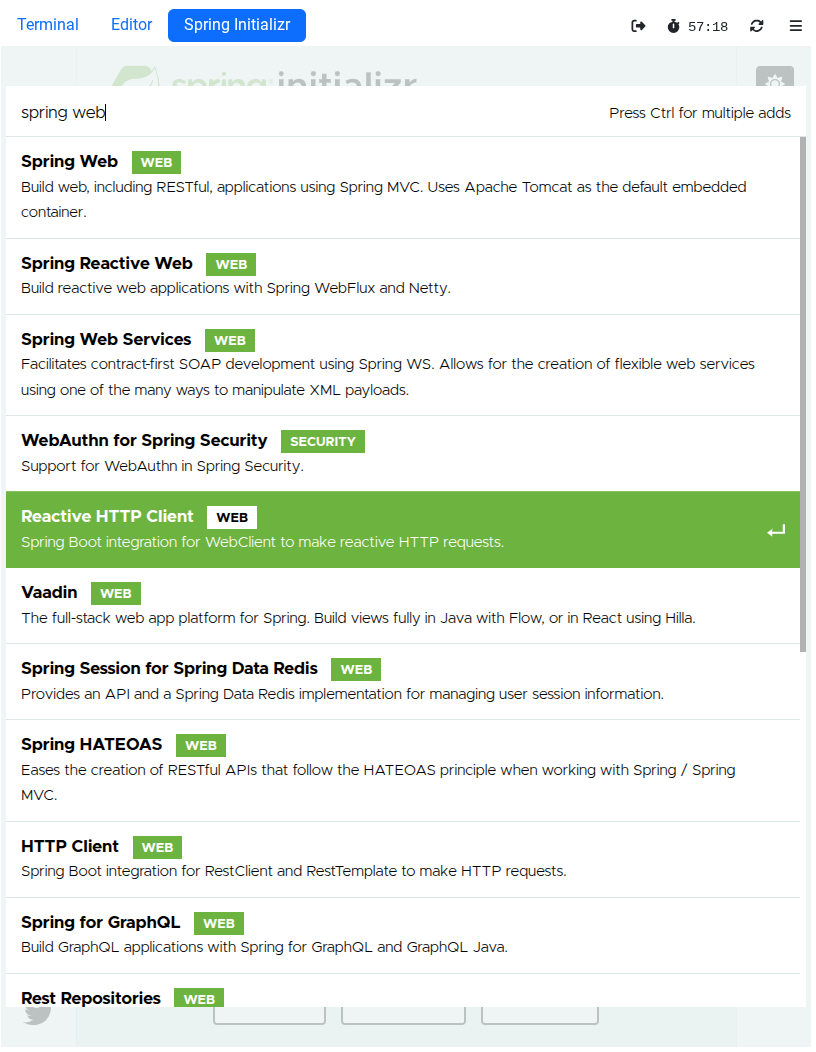
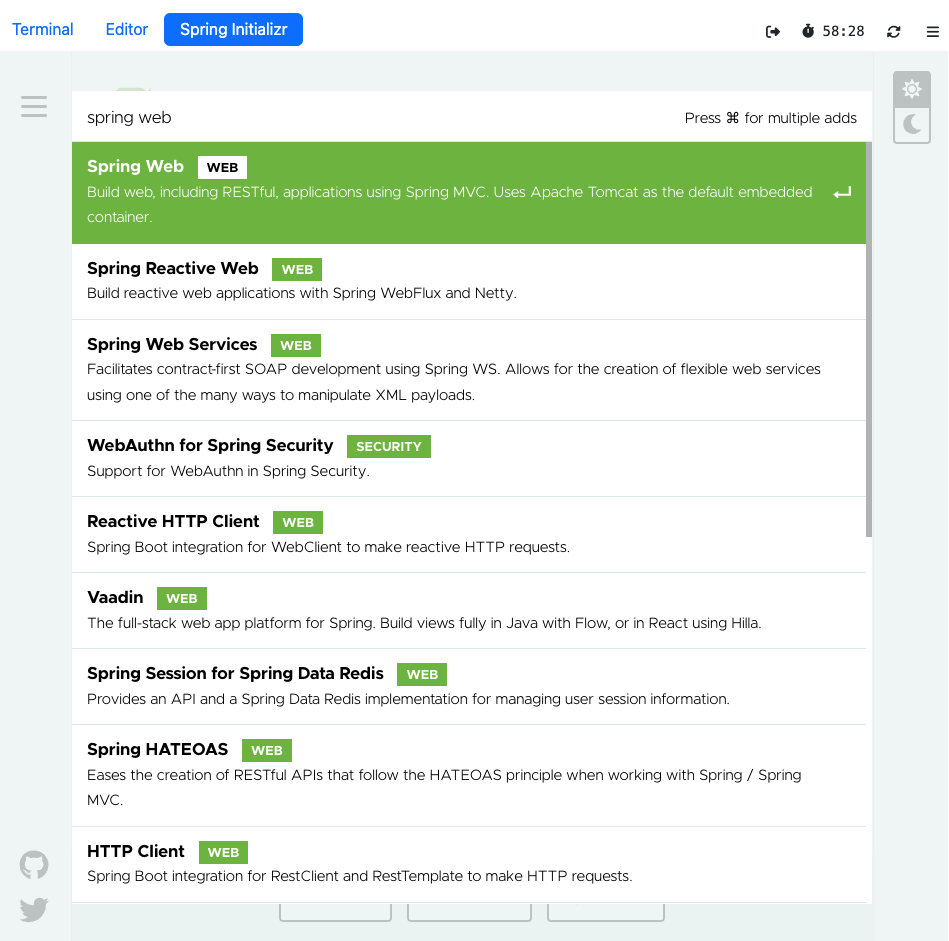
upates following user feedback

diff --git a/labs/07-create-post/workshop/content/07-test-and-learn.md b/labs/07-create-post/workshop/content/07-test-and-learn.md
@@ -62,7 +62,7 @@ Let's find out.
       ...
    ```
 
-   In addition, edit `build.gradle` to enable more verbose test output, which will help us identify the upcoming test failure.
+   In addition, edit `build.gradle` to enable more verbose test output, which will give us more insight into what happens when we run the tests.
 
    ```editor:select-matching-text
    file: ~/exercises/build.gradle
@@ -82,7 +82,7 @@ Let's find out.
 
 1. Run the tests.
 
-   When we run the test we see that the the API crashes with a `500` status code.
+   The test fails, but not in the way you might expect.
 
    ```dashboard:open-dashboard
    name: Terminal
@@ -91,26 +91,30 @@ Let's find out.
    ```shell
    [~/exercises] $ ./gradlew test
    ...
-   expected: 201 CREATED
-    but was: 500 INTERNAL_SERVER_ERROR
+   CashCardApplicationTests > shouldCreateANewCashCard() FAILED
+       org.opentest4j.AssertionFailedError:
+       expected: 200 OK
+        but was: 404 NOT_FOUND
    ```
 
-   Let's find out why the test is failing.
+   Look closely at which assertion failed. It's the one checking the `GET` response, not the `POST` response — the `POST` still returned `201 CREATED` with a `Location` header. It's only when the test follows that `Location` header that things fall apart.
 
-1. Find and understand the database failure.
+   Let's find out why.
 
-   Search the test output for the following message:
+1. Understand what happened.
 
-   ```shell
-   Failed to update entity [CashCard[id=44, amount=250.0]]. Id [44] not found in database.
-   ```
+   The `POST` request appeared to succeed, yet nothing was actually saved. Interesting! Can you guess why?
 
-   The Repository is trying to **_find `CashCard` with `id` of `44` and throwing an error when it cannot find it._** Interesting! Can you guess why?
+   Supplying an `id` tells Spring Data JDBC that we're asking it to **update** an existing `CashCard`, not create a new one. Since no `CashCard` with `id` of `44` exists yet, that "update" matches zero rows in the database.
+
+   `cashCardRepository.save()` doesn't treat this as an error: no row is written, but no exception is thrown either. The controller has no way of knowing anything went wrong, so it still returns `201 CREATED` with a `Location` header pointing at `/cashcards/44`.
+
+   The problem only becomes visible one step later, when the test follows that `Location` header with a `GET` request: there's no `CashCard` with `id` of `44` in the database, so the response is `404 NOT_FOUND`.
 
    Supplying an `id` to `cashCardRepository.save` is supported when an _update_ is performed on an existing resource.
 
    We'll cover this scenario in a later lab focused on updating an existing `CashCard`.
 
-In this Learning Moment you learned that the API requires that you _not_ supply a `CashCard.id` when creating a new `CashCard`.
+In this Learning Moment you learned that the API requires that you _not_ supply a `CashCard.id` when creating a new `CashCard`. Doing so doesn't cause an obvious crash — it lets the create request report success while silently saving nothing.
 
 Should we validate that requirement in the API? You betcha! Again, stay tuned for how to do that in a future lesson.
